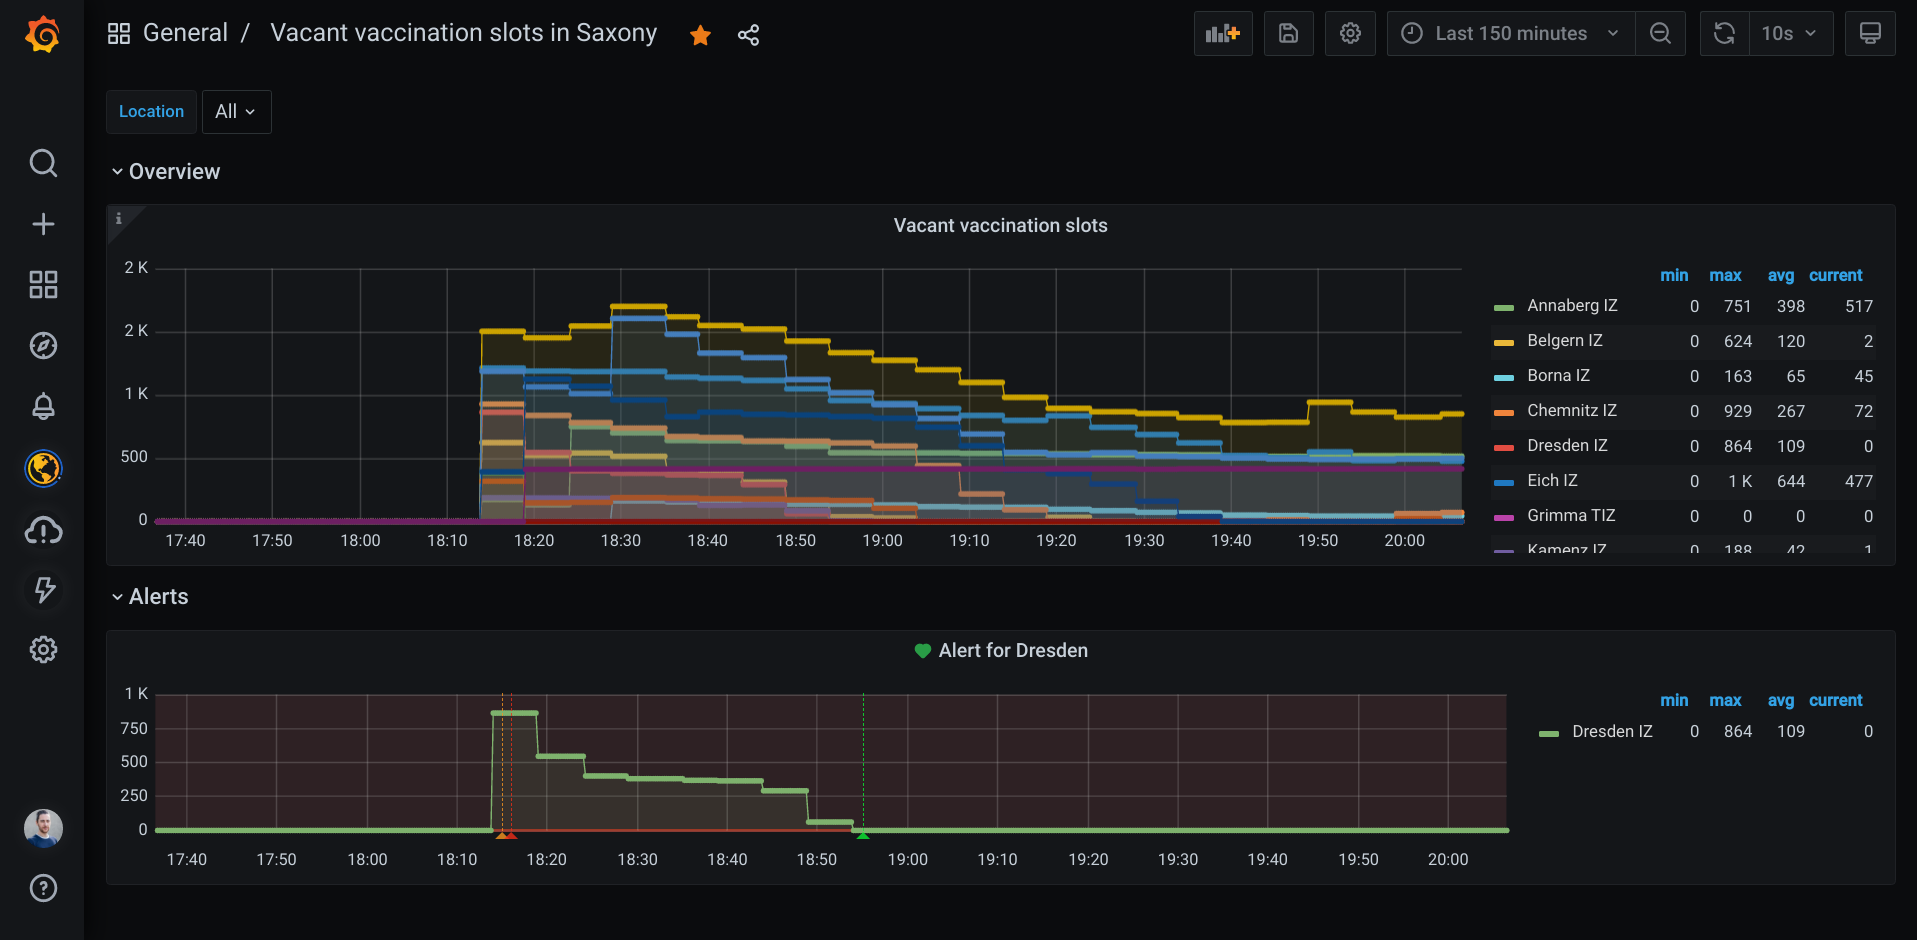
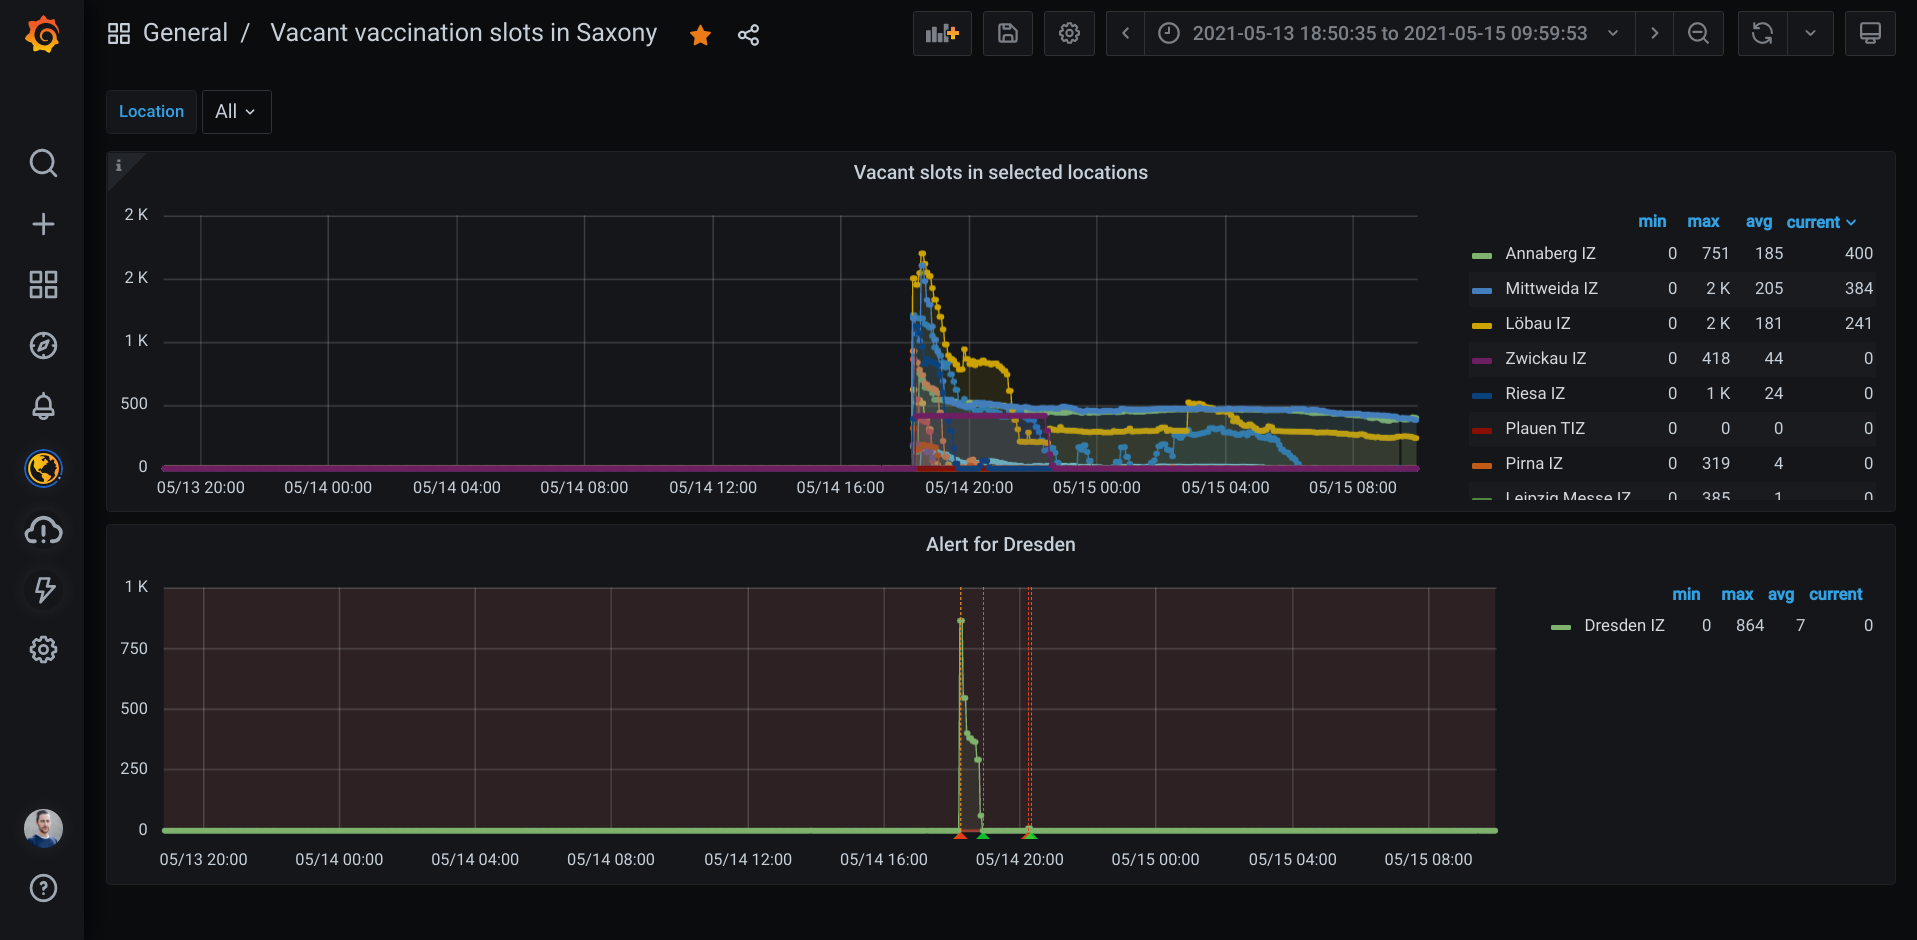
Update screenshot and add link to Grafana snapshot

diff --git a/README.md b/README.md
@@ -6,11 +6,15 @@
 
 In my region, you need to use a [dashboard by Countee][countee_dashboard] to get informed about vacant vaccination slots. I have built _counteeexporter_ on a whim because it is a waste of time to check the official dashboard several times a day only to find out that there are no free slots. It leverages the Countee API to fetch the information and exposes the results in the Prometheus [exposition format][expostion_format]. That means you can use _counteexporter_ as a scrape target for [Prometheus][prometheus] and create automated alerts for vacant vaccination slots in a vaccination centre of your choice.
 
+
 You don't need to set up a Prometheus instance yourself to use _counteeexporter_. My recommendation is to get a free [Grafana cloud account][grafana_cloud]. You can use the [Grafana agent][grafana_agent] to send the collected data to your managed Prometheus instance. Check the [deploy branch][deploy_branch] to get an idea of how you could set this up.
 
-**Disclaimer:** I did not find official documentation for the Countee API so this probably only works with the endpoint I was interested in.
+
+The screenshot below shows, that several hundreds of vacant slots just appear out of the blue after a long period with no availability. You need to be really fast in metropolitan areas because they are booked within minutes. [Here is a snapshot of the timeframe displayed in the picture.][grafana_snaphshot]
 
 ![Grafana dashboard with countee data](screenshot_grafana_dashboard.png)
+
+**Disclaimer:** I did not find official documentation for the Countee API so the exporter probably only works with the endpoint I was interested in.
 
 [countee_dashboard]: https://www.countee.ch/app/de/counter/impfee/_iz_sachsen
 [expostion_format]: https://github.com/prometheus/docs/blob/master/content/docs/instrumenting/exposition_formats.md
@@ -18,4 +22,4 @@ You don't need to set up a Prometheus instance yourself to use _counteeexporter_
 [grafana_cloud]: https://grafana.com/products/cloud/
 [grafana_agent]: https://github.com/grafana/agent
 [deploy_branch]: https://github.com/usommerl/counteeexporter/tree/deploy
-
+[grafana_snaphshot]: https://usommerl.grafana.net/dashboard/snapshot/utOX7mqkj4ofFQaQ369Be5SYFf3qNtrL
